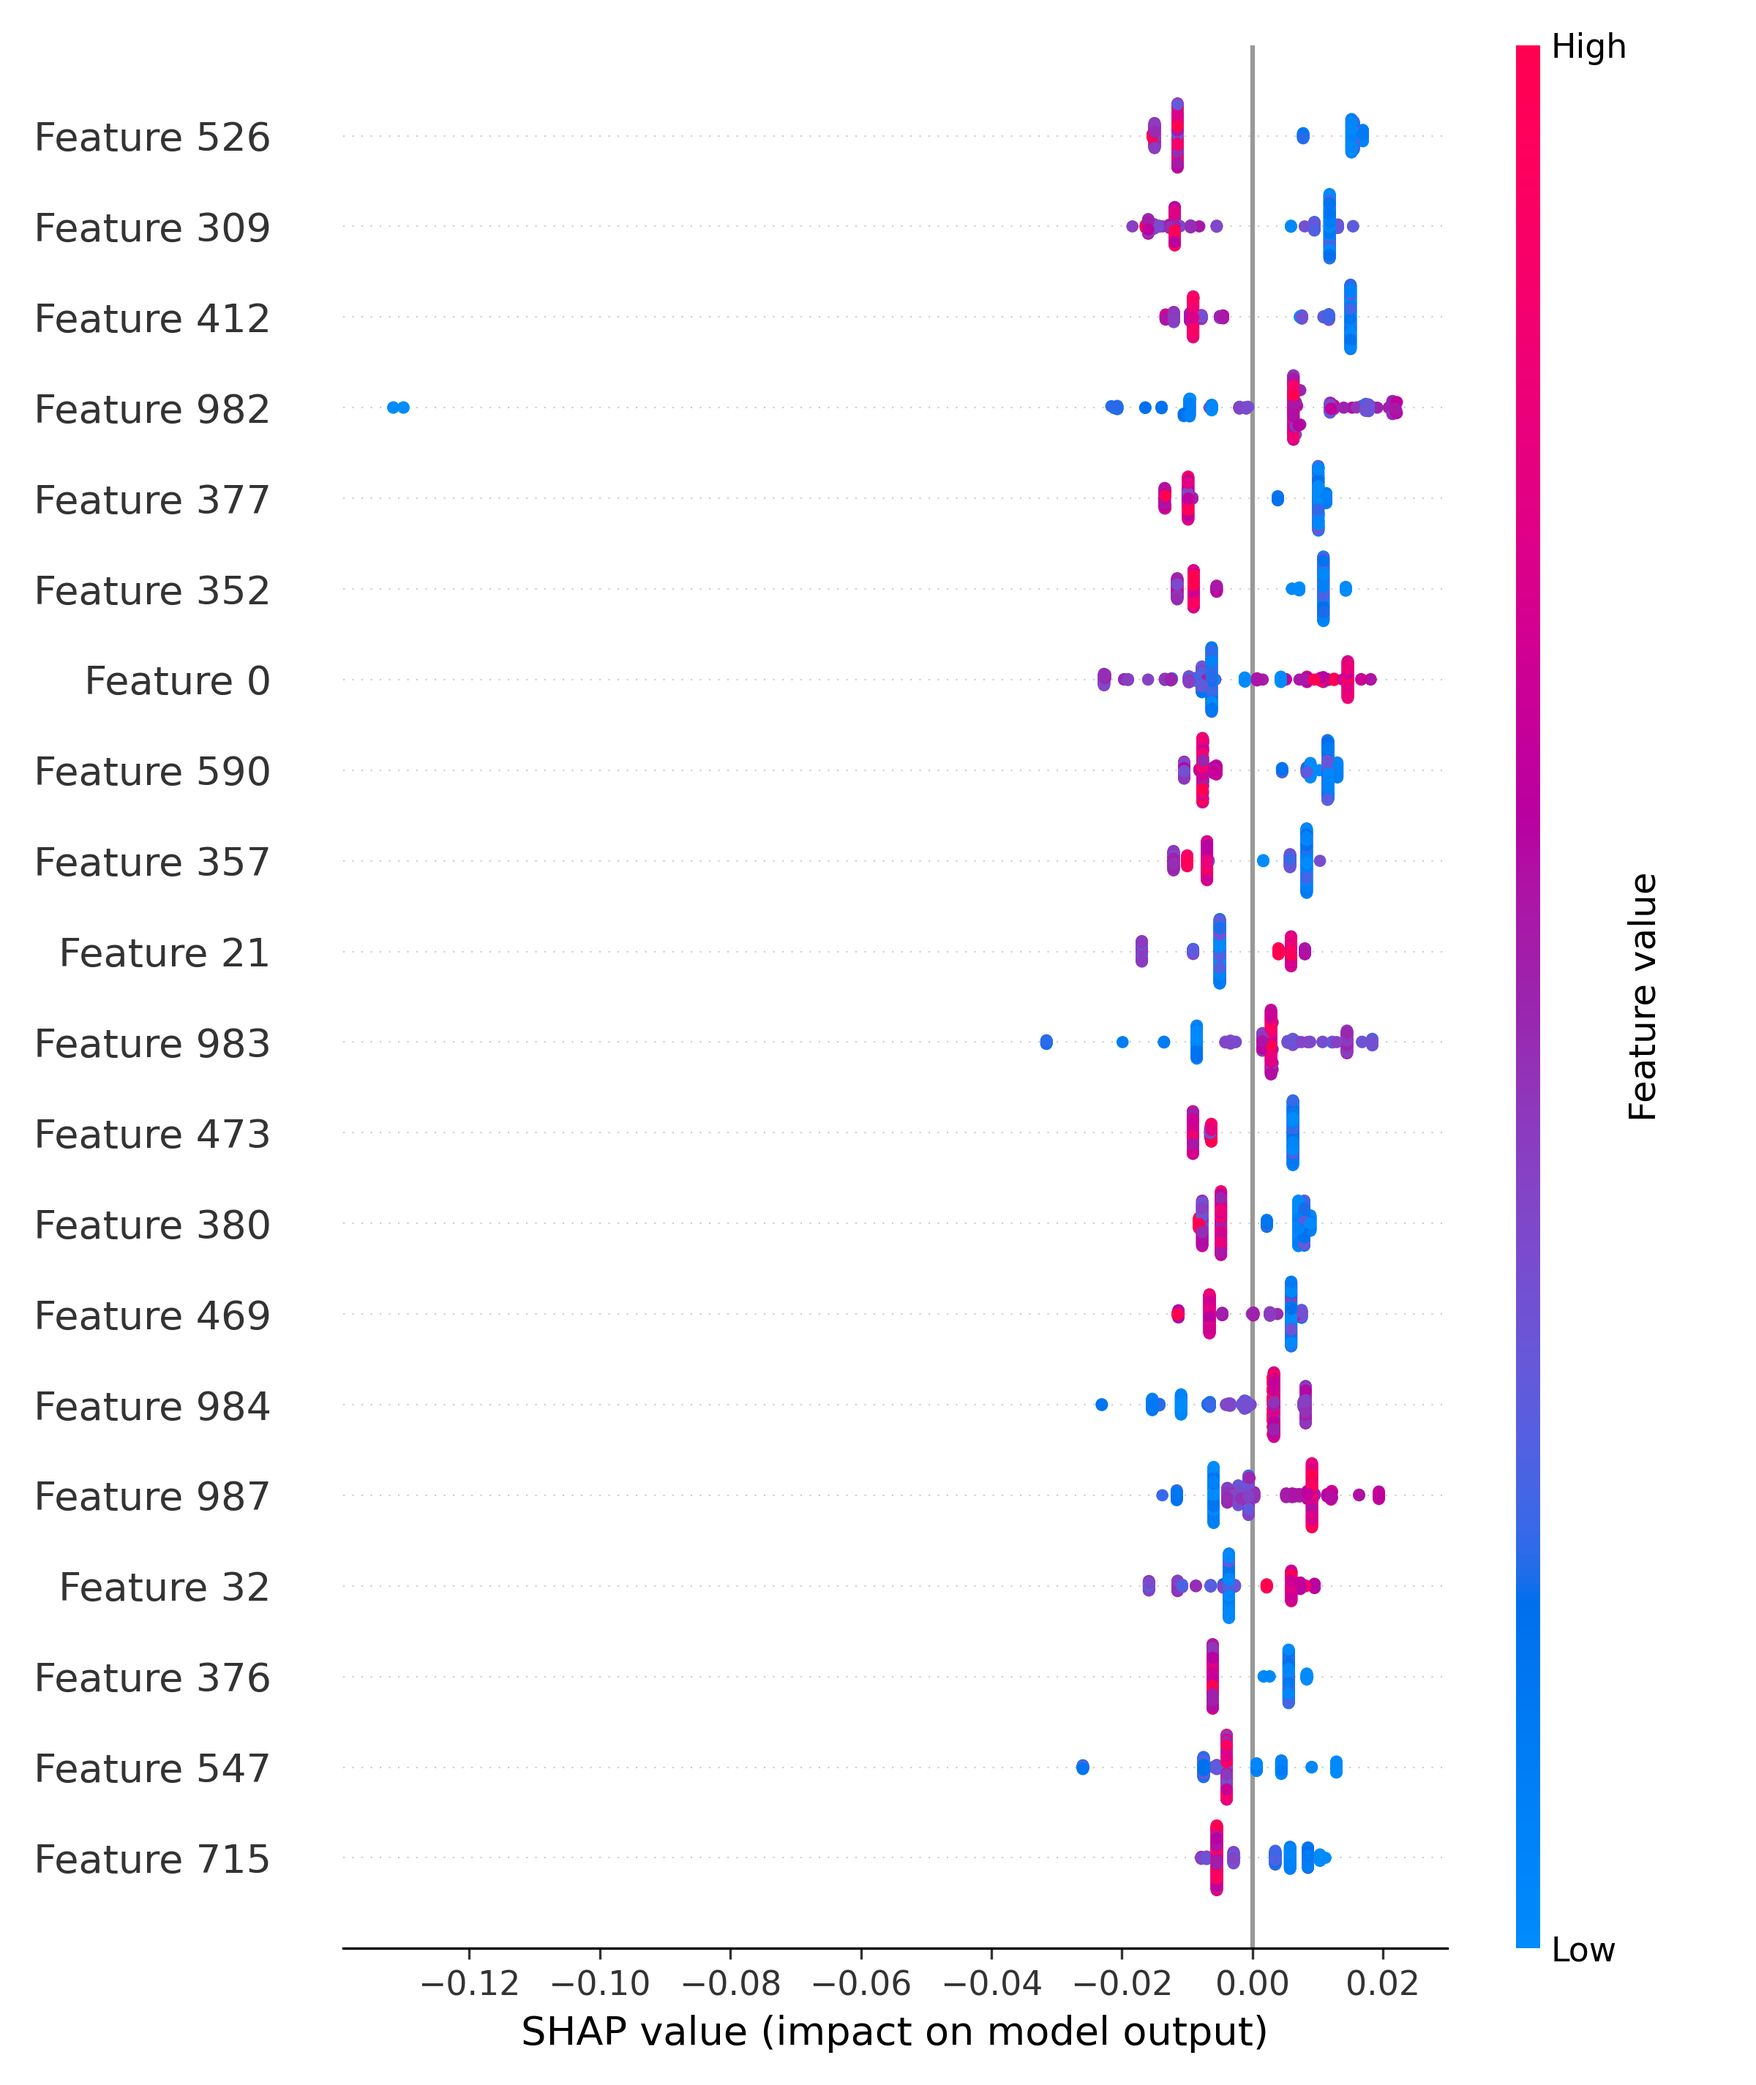
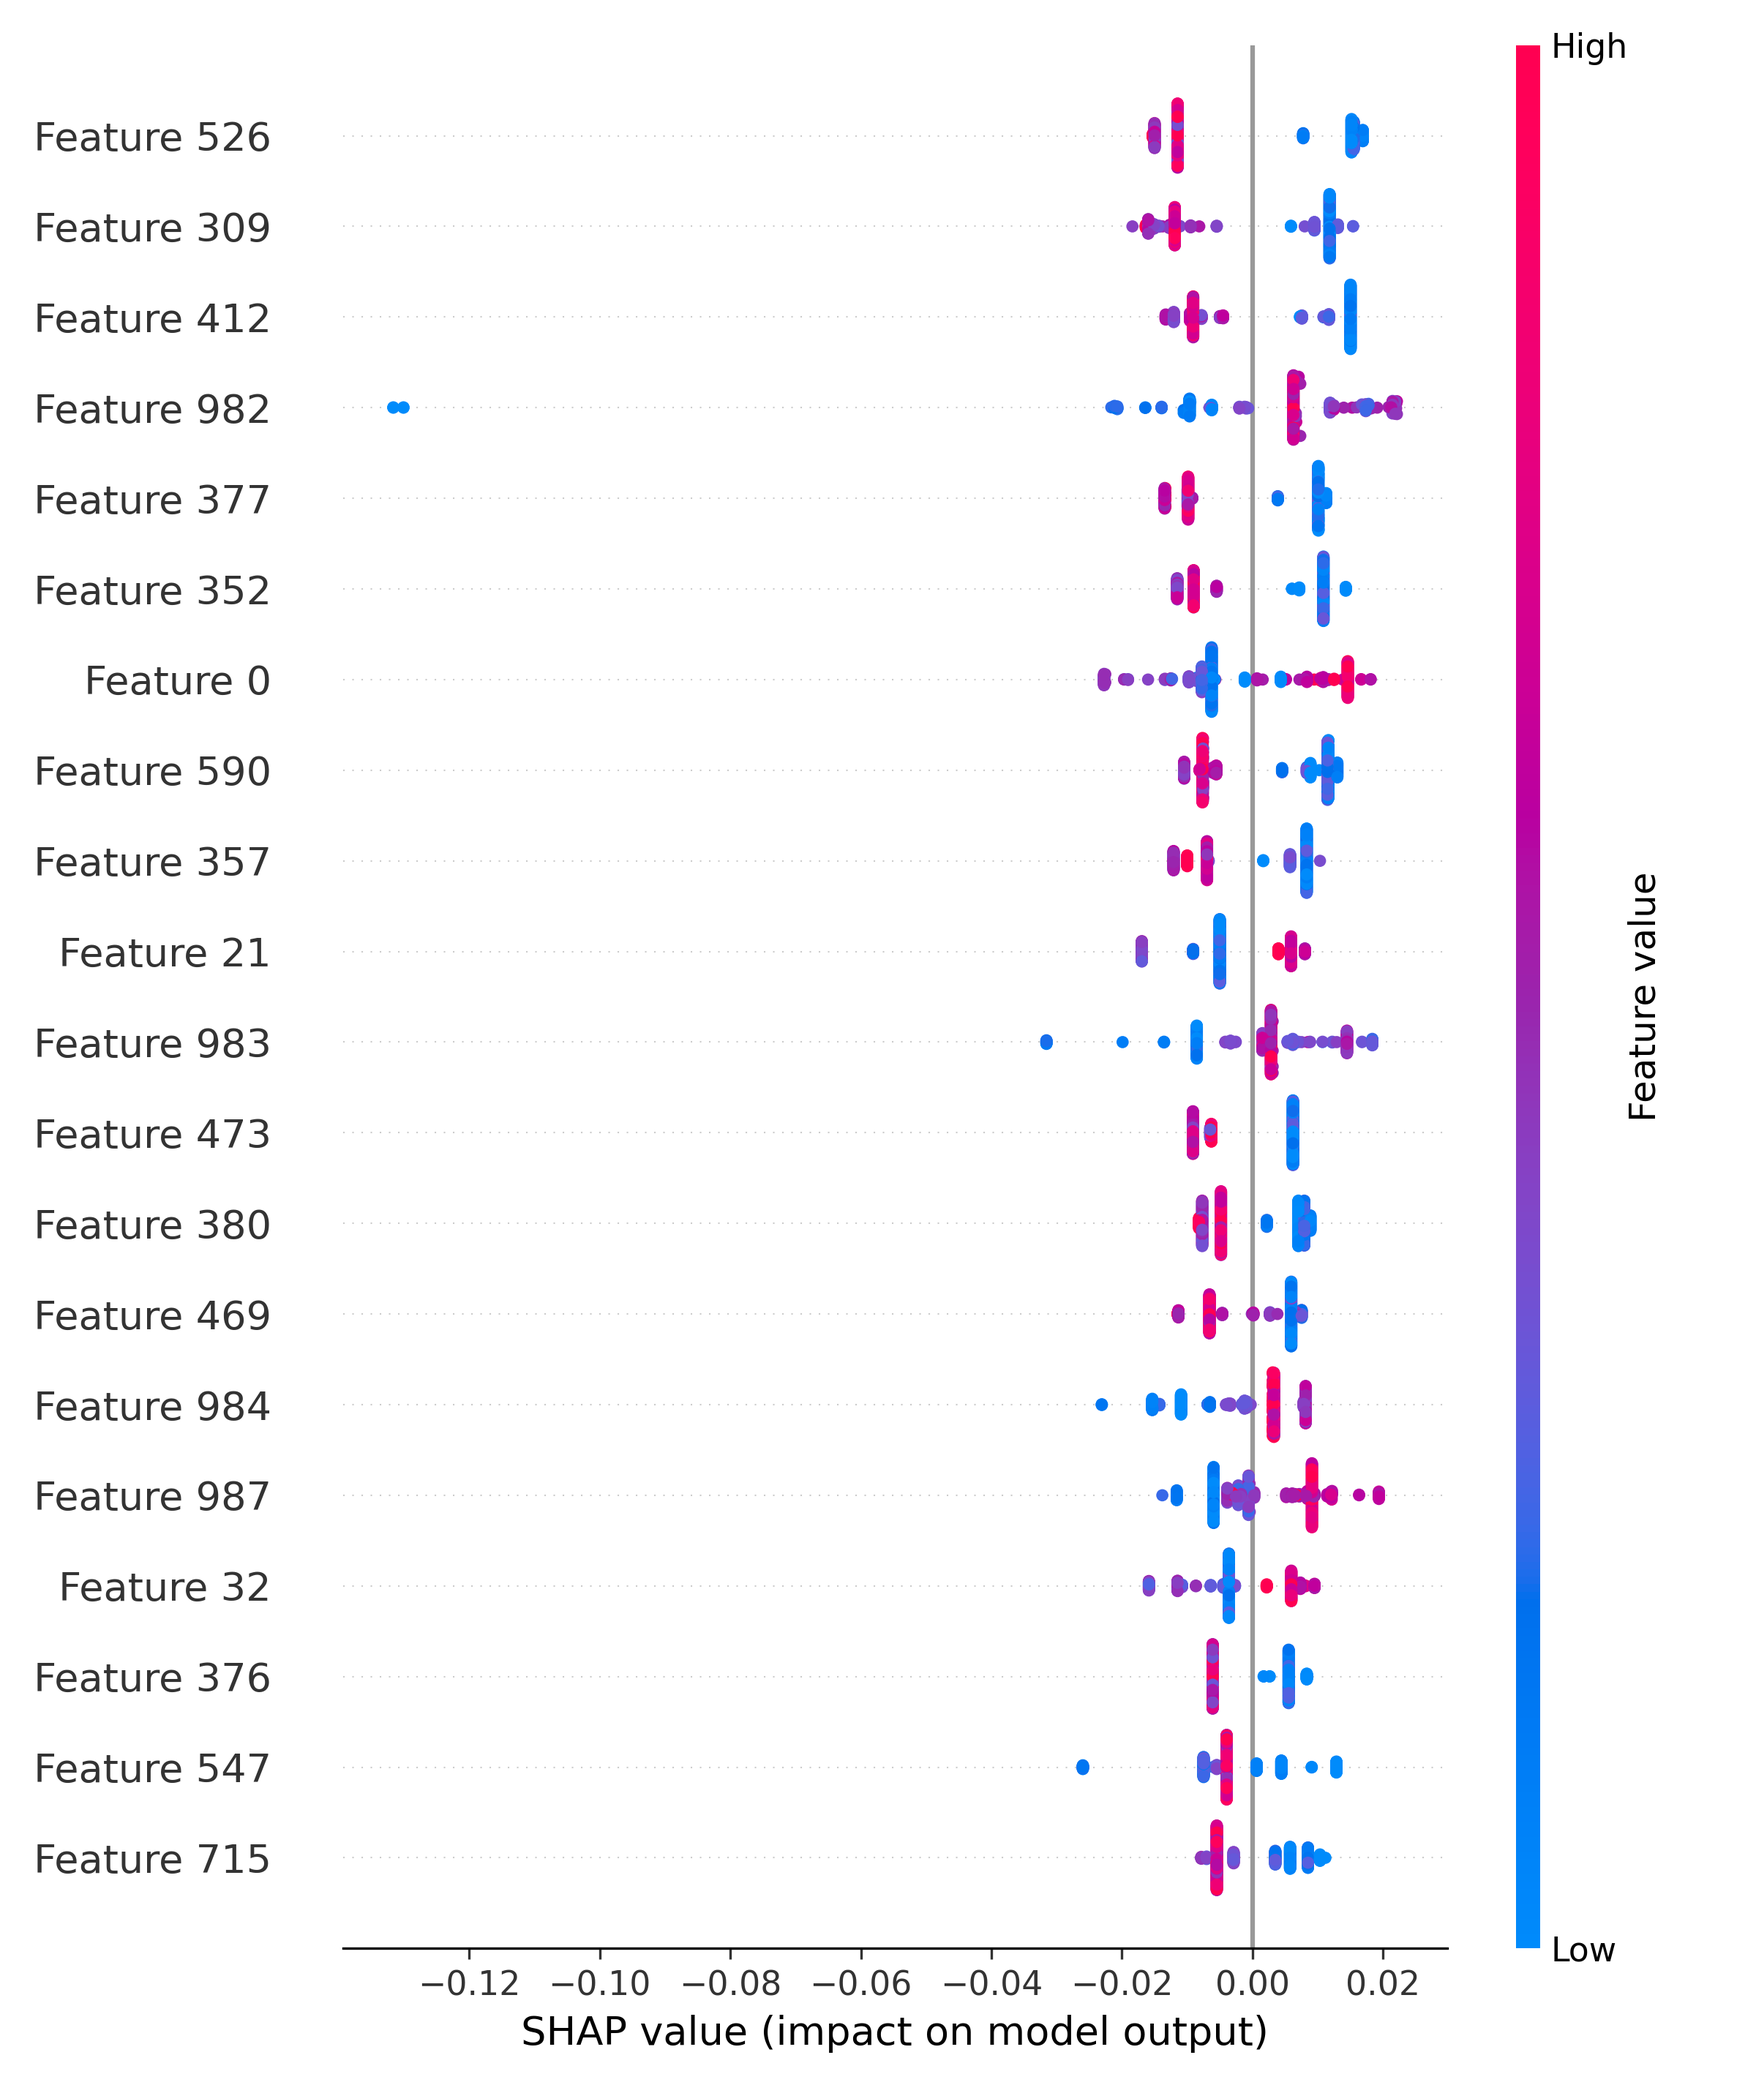
any feature intervals you picked once on the training+remaining data are reused verbatim on the held-out replicates,

diff --git a/10_fold_loo/main_bayes.py b/10_fold_loo/main_bayes.py
@@ -117,6 +117,19 @@ def run_outer_loo(raw_tr, y_tr_meta, raw_ex, y_ex_meta, chain, n_calls=25):
         groups = np.concatenate([grp_tr, grp_ex])
 
         prep = Preprocessing(X_pool, ipls_threshold=0.2)
+        # ─── if IntervalPLS in this chain, select intervals once on the pool ───
+        sel = None
+        if 'IntervalPLS' in chain:
+            # X_pool.T: (n_samples, n_features), y_pool: (n_samples,)
+            sel = prep.select_intervals_by_pls_r2(
+                X_pool.T,
+                y_pool,
+                n_intervals=150,
+                n_components=2,
+                cv_folds=5,
+                threshold=prep.ipls_threshold
+            )
+
 
 
         # ─── Inner Bayesian CV objective ────────────────────────────────────────
@@ -181,7 +194,13 @@ def run_outer_loo(raw_tr, y_tr_meta, raw_ex, y_ex_meta, chain, n_calls=25):
         plot_shap_summary       (mdl_final, X_full)
 
         # ─── fold-specific prediction ─────────────────────────────────
-        Xh = Preprocessing(X_hold, ipls_threshold=0.2).preprocess(chain, y=[y_hold]).T
+        # ─── apply the same IntervalPLS selection to the hold-out ───────────
+        if sel is not None:
+            Xh = X_hold[sel, :].T
+        else:
+            Xh = Preprocessing(X_hold, ipls_threshold=0.2) \
+                    .preprocess(chain, y=[y_hold]).T
+
 
         preds = mdl_final.predict(Xh)
         fold_records.append({
@@ -222,7 +241,13 @@ def run_outer_loo(raw_tr, y_tr_meta, raw_ex, y_ex_meta, chain, n_calls=25):
         X_full = prep.preprocess(chain, y=y_pool).T
         mdl_g.fit(X_full, y_pool)
 
-        Xh = Preprocessing(X_hold, ipls_threshold=0.2).preprocess(chain, y=[y_hold]).T
+        # ─── apply the same IntervalPLS selection to the hold-out ───────────
+        if sel is not None:
+            Xh = X_hold[sel, :].T
+        else:
+            Xh = Preprocessing(X_hold, ipls_threshold=0.2) \
+                    .preprocess(chain, y=[y_hold]).T
+
 
         preds = mdl_g.predict(Xh)
         global_records.append({
